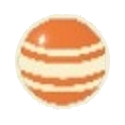
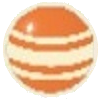
candy at the top. bg image.

diff --git a/css/style.css b/css/style.css
@@ -13,19 +13,17 @@ input::-webkit-input-placeholder {
 }
 body{
     /*font-family: 'Roboto', sans-serif;*/
-    background-color: #fcf5e6;
     color:rgba(0,0,0,.9);
     font-size: 20px;
 }
-h1 {
+.container h1 {
     margin-top: 0;
     text-align: center;
     position: relative;
 }
 #title {
     position: relative;
-    padding-left: 30px;
-    margin-left: 2px;
+    padding-left: 10px;
     font-family: "Fira Sans", sans-serif;
 }
 #logo {
@@ -34,7 +32,7 @@ h1 {
     margin-top: -20px;
     position: absolute;
     bottom: 0;
-    left: -30px;
+    right: 100%;
 }
 #description {
     margin-top: -15px;
@@ -77,8 +75,23 @@ a:active {
     padding: 20px;
     margin: 0 auto;
     justify-content: space-between;
+    z-index: 1
 } .container > button, .container > .row {
     margin-bottom: 20px;
+} .container::after{
+  content: "";
+  background: url(../img/karp.png) no-repeat center center fixed;
+          -webkit-background-size: cover;
+        -moz-background-size: cover;
+        -o-background-size: cover;
+        background-size: cover;
+  opacity: 0.2;
+  top: 0;
+  left: 0;
+  bottom: 0;
+  right: 0;
+  position: absolute;
+  z-index: -1;  
 }
 .input {
     margin: 0;
@@ -126,18 +139,18 @@ a:active {
 }
 
 .light-tone {
-    background-color: rgba(255,163,97,.3);
+    background-color: rgb(239, 248, 181);
 } .light-tone.shadow {
-    box-shadow: 0 2px 0 0 rgba(6,116,153,.3);
+    box-shadow: 0 2px 0 0 rgb(178, 206, 207);
 }
 .mid-tone {
-    background-color: rgba(255,113,66,.5);
+    background-color: rgb(254, 179, 148);
 } .mid-tone:hover {
-    background-color: rgba(255,113,66,.6);
+    background-color: rgb(254, 166, 132);
 }
 .mid-tone.shadow {
-    box-shadow: 0 3px 0 0 rgba(6,116,153,.5);
+    box-shadow: 0 3px 0 0 rgb(129, 181, 192);
 }
 .dark-tone, .switch.active {
-    background-color: rgba(255,113,66,1);
+    background-color: rgb(255,113,66);
 }
